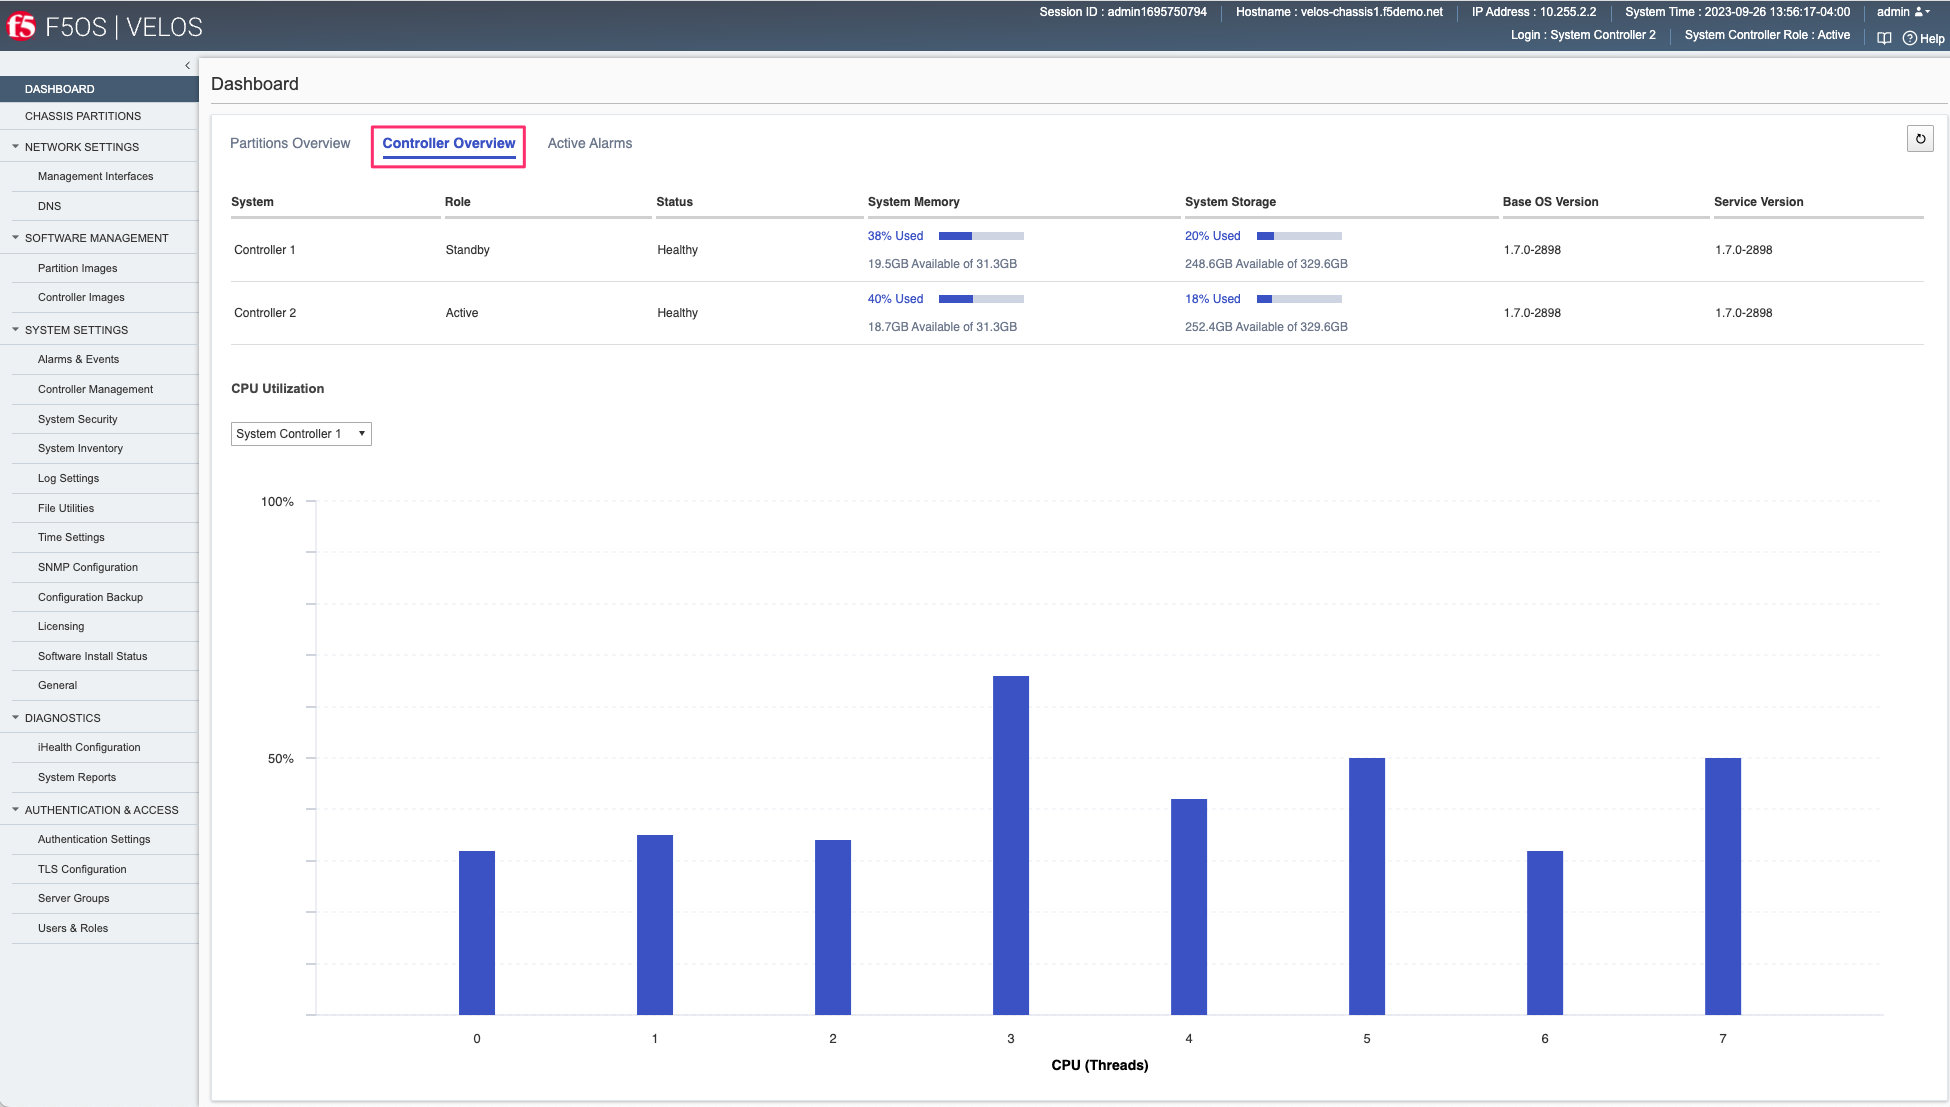
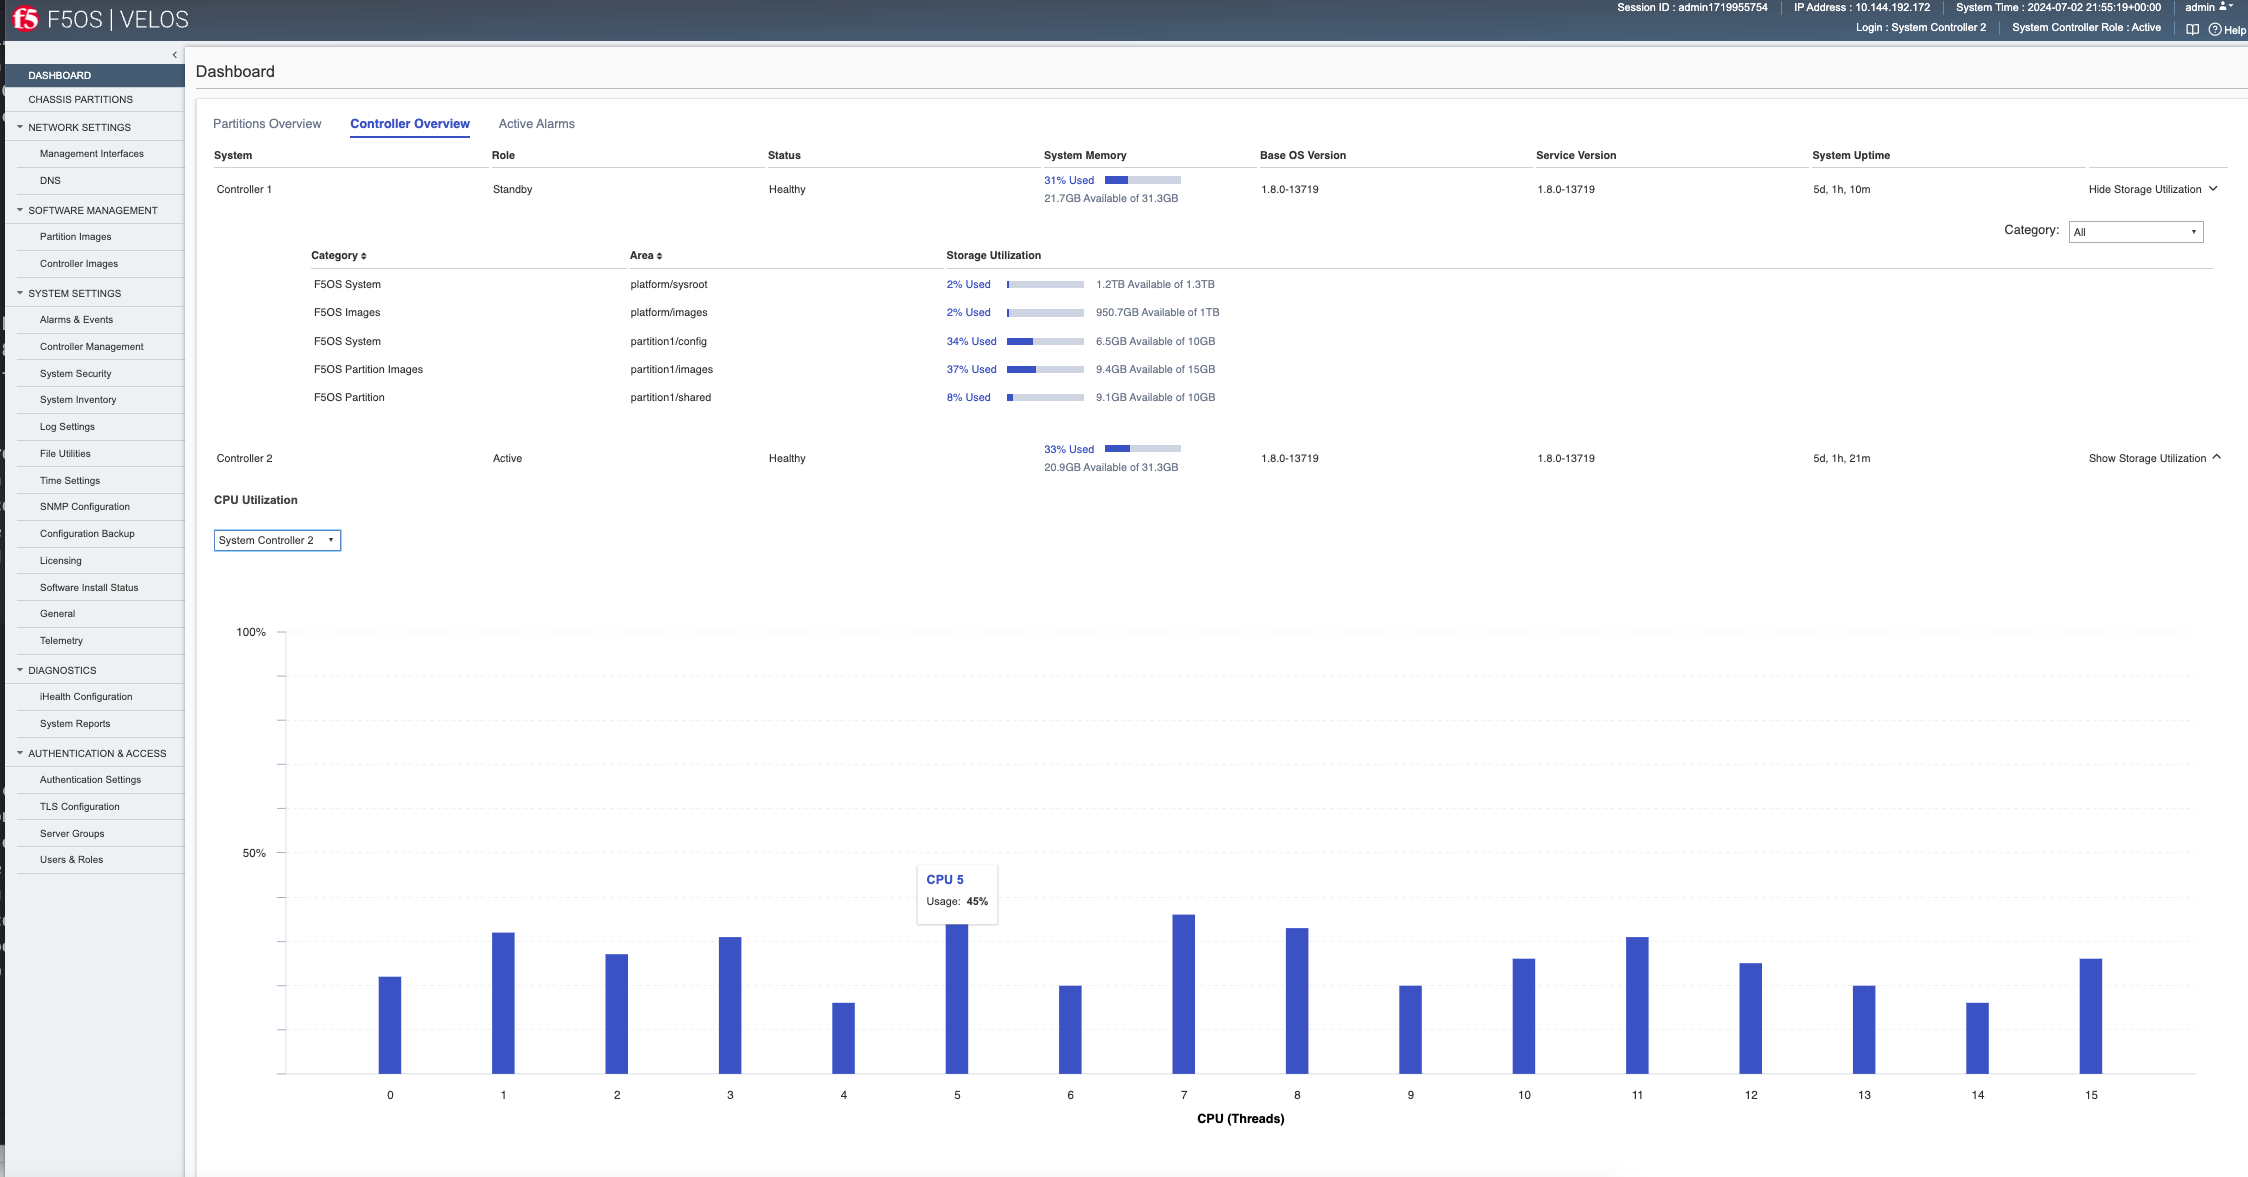
bx520 networking

diff --git a/docs/velos_high_availability.rst b/docs/velos_high_availability.rst
@@ -5,7 +5,7 @@ VELOS High Availability
 System Controller HA
 ====================
 
-The system controllers perform two main functions for the VELOS chassis. They are the centralized layer2 switch fabric connecting all blades within the system, and they also host the Kubernetes control plane which manages the F5OS layer. The CX410 system ships with redundant system controllers. 
+The system controllers perform two main functions for the VELOS chassis. They are the centralized layer2 switch fabric connecting all blades within the system, and they also host the Kubernetes control plane which manages the F5OS layer. Both the CX410 & CX1610 systems ship with redundant system controllers, although the system controllers are different between the chassis families. 
 
 The layer2 switch fabric function performed by the system controllers runs in an active-active manner. Both switch fabrics are active, and each BX110 blade is dual homed with a 100Gb backplane connection to each system controller (200Gb total). On the BX110 blade, the two 100Gb ports are bonded together in a static Link Aggregation Group (LAG). Traffic destined for other blades in the system will hash over the two links (assuming both are active), then traverse the switch fabrics on the system controllers on its way to the destination blade. 
 
@@ -15,6 +15,13 @@ The layer2 switch fabric function performed by the system controllers runs in an
   :scale: 70%
 
 While both switch fabrics are active, there is 1.6Tbs of switching capacity between all the blades in the system. If one of the switch fabrics should fail, then the total bandwidth will be cut in half to 800Gbs on the backplane, and each blade will be limited to 100Gbs of backplane capacity. Note that the current throughput rating on the BX110 blades (95Gb) will not push the backplane to full capacity, even if there is a single system controller failure.
+
+The architecture is similar in the CX1610 chassis, although the system controllers have much higher capacity (3.2Tbs each). The layer2 switch fabric function performed by the system controllers runs in an active-active manner. Both switch fabrics are active, and each BX520 blade is dual homed (from each slot) with a 100Gb backplane connection to each system controller (200Gb total per slot). Each BX520 blade takes up 2 slots in the CX1610 chassis, so the blade has an aggregate of 400gb (4 x 100gb) backplane connectivity. On the BX5200 blade, the four 100Gb backplane ports are bonded together in a static Link Aggregation Group (LAG). Traffic destined for other blades in the system will hash over the two links (assuming both are active), then traverse the switch fabrics on the system controllers on its way to the destination blade. 
+
+.. image:: images/velos_high_availability/bx520-cx1610-backplane.png
+  :align: center
+  :scale: 70%
+
 
 The second function the system controllers perform is the management of the control plane for the new Kubernetes platform layer (F5OS). At this layer the system controllers run in an active/standby fashion. One system controller will be designated primary/active, and the other will be designated secondary/standby. All Kubernetes services will be active on the primary including the API server, scheduler, controller manager, etcd, webUI services, etc. The active system controller can always be reached via the floating IP address that is assigned to the system controllers. The floating address will move in the case of a controller failure. The secondary controller operates in a read-only manner and any changes to configuration must be made on the primary. All changes are replicated from primary to secondary controller, so they should always be in sync, there is no need to manually sync them. The Kubernetes control plane is responsible for deploying workloads on the BX110 blades.
 
@@ -27,6 +34,13 @@ You may view the current high availability status in the dashboard of the system
 .. image:: images/velos_high_availability/image3.png
   :align: center
   :scale: 70%
+
+Below is a similar screen for the CX1610 chassis with Bx520 blades. Note how the Bx520 blade is a s lot blade, so the 2nd slot will show up **Aux**. 
+
+.. image:: images/velos_high_availability/cx1610-partitions.png
+  :align: center
+  :scale: 70%
+  
 
 The **Controller Overview** tab will show CPU utilization, controller role and status, system memory utilization, system storage utilization and the Base OS and Service versions running on the controllers.
 
@@ -156,6 +170,15 @@ Each VELOS BX110 blade has two physical ports, that currently support the follow
 .. image:: images/velos_high_availability/image12.png
   :align: center
   :scale: 90%
+
+VELOS BX520 Blade 
+-----------------
+
+Each VELOS BX520 blade has two physical ports, that currently support the following options for connectivity: port 1.0: 100Gb, prt 2.0 400Gb. The number of blades installed may dictate which approach makes the most sense, as the number of ports available, and the performance required, may dictate some topology decisions.
+
+.. image:: images/velos_high_availability/image12-bx520.png
+  :align: center
+  :scale: 90%  
 
 HA Topology Options
 -------------------
